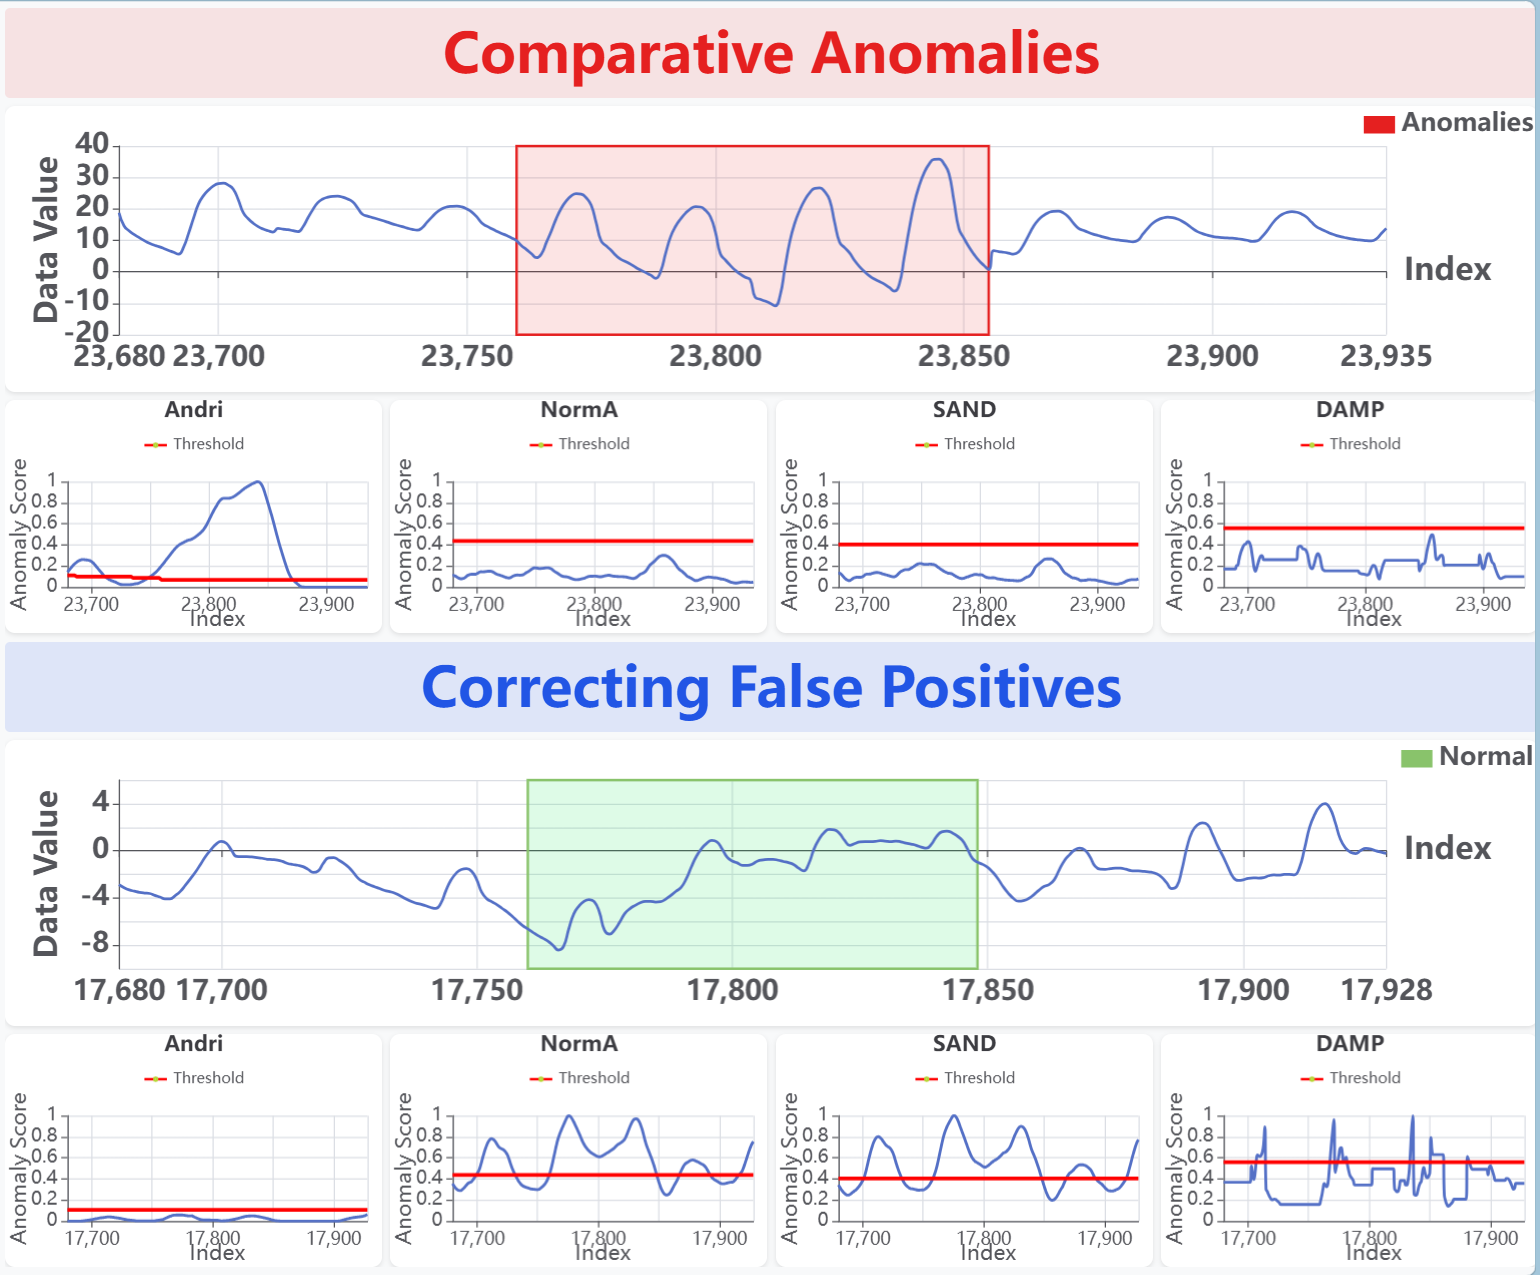
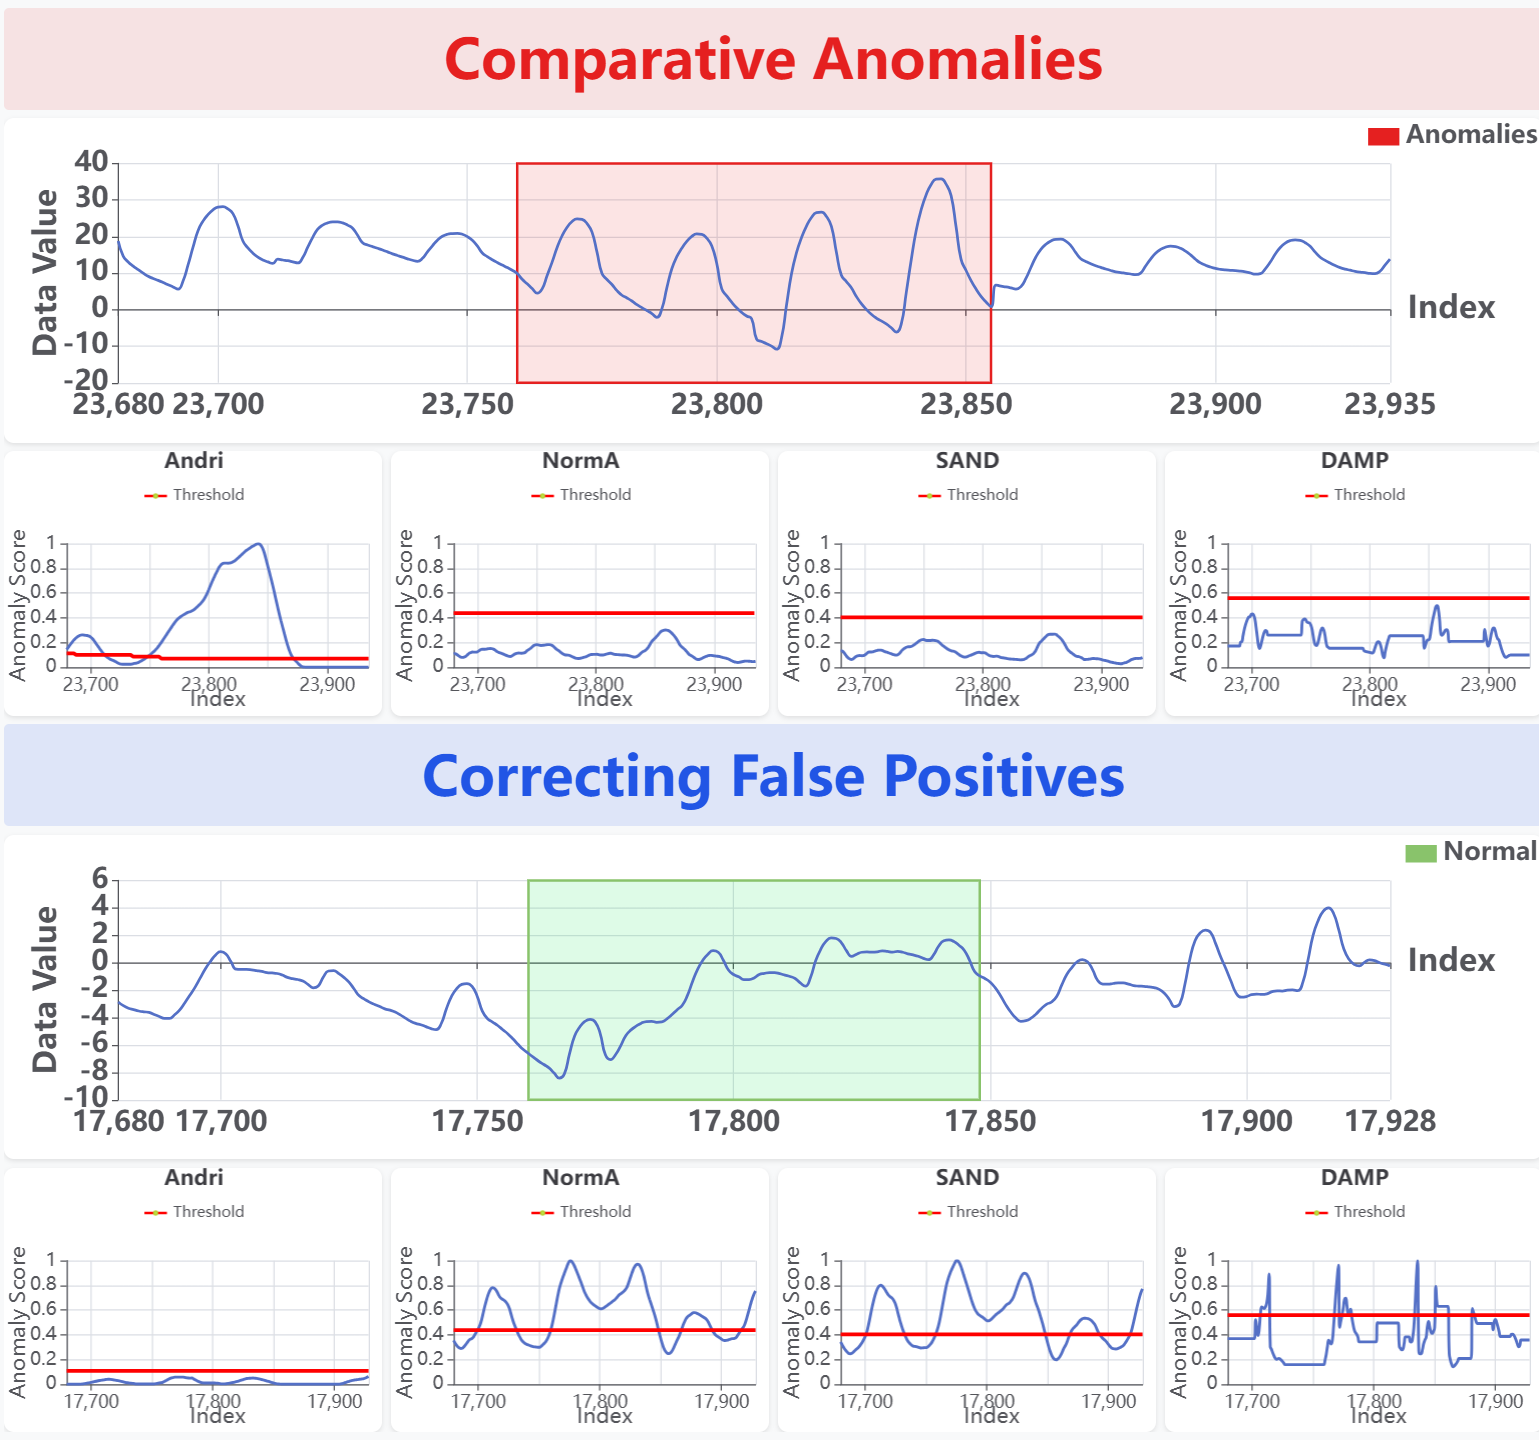
Updates from Overleaf

diff --git a/chapters_after_preface/6_Experiments.tex b/chapters_after_preface/6_Experiments.tex
@@ -16,8 +16,6 @@ Three time-series datasets were used to evaluate the system: ECG, Elec, and Weat
 \noindent To evaluate the ECG results, AnDri was compared with three baseline anomaly detection methods: NormA, SAND, and DAMP. The ECG dataset is taken from the public TSB-UAD benchmark repository,\footnote{\url{https://github.com/TheDatumOrg/TSB-UAD}} while the AnDri demo integration is implemented in the project repository.\footnote{\url{https://github.com/ZeeChee-Guo/AndriDemo}} For the baseline implementations, SAND and DAMP are integrated through publicly available benchmark or project code. NormA is treated separately because its source code is not directly included in the TSB-UAD repository used in this project; access to the NormA implementation needs to be requested from the original authors.
 
 
-
-
 \section{Evaluation Metrics}
 % \fei{How do you measure these using what labels?}
 % \fei{What does this mean technically?  Avoid general statements that are vague.  PResent what results????}
@@ -95,51 +93,58 @@ Overall, this experiment supports the effectiveness of incorporating user intera
 
 
 
-\section{ECG Experimental Results and Analysis}
-Table~\ref{tab61} reports the ECG detection results for AnDri and the three baseline methods. AnDri achieves the best recall, F1-score, and AUC among all methods. Although NormA obtains the highest precision, its recall is much lower, which indicates that it misses many true anomaly points. DAMP has relatively high recall, but its lower precision and F1-score show that it produces more false positives. SAND performs poorly on recall in this setting, suggesting that many ECG anomalies are not successfully detected.
+
+
+\section{Visual Anomaly and Drift Co-Exploration Results}
+
+The second group of experiments evaluates the visualization contribution of the AnDri system. This section shows that the interface can make the behavior of AnDri interpretable. The quantitative results are reported in Table~\ref{tab:t1}, while the figures show the local time-series values, anomaly-score curves, thresholds, and highlighted regions.
 
 \begin{table}[H]
 \centering
-\caption{ECG detection results.}
-\label{tab61}
-\begin{tabular}{lcccc}
+\small
+\caption{Comparative accuracy for the ECG and Weather visual case studies, using the values reported in the AnDri paper \citep{park2025andri}.}
+\label{tab:t1}
+\begin{tabular}{llcccc}
 \hline
-Algorithm & Precision & Recall & F1-Score & AUC \\
+Dataset & Algorithm & Precision & Recall & F1-Score & AUC \\
 \hline
-AnDri & 0.412 & \textbf{0.808} & \textbf{0.546} & \textbf{0.964} \\
-NormA & \textbf{0.679} & 0.391 & 0.496 & 0.887 \\
-SAND  & 0.236 & 0.023 & 0.042 & 0.853 \\
-DAMP  & 0.239 & 0.776 & 0.365 & 0.816 \\
+ECG & AnDri & 0.412 & \textbf{0.808} & \textbf{0.546} & \textbf{0.964} \\
+ECG & NormA & \textbf{0.679} & 0.391 & 0.496 & 0.887 \\
+ECG & SAND  & 0.236 & 0.023 & 0.042 & 0.853 \\
+ECG & DAMP  & 0.239 & 0.776 & 0.365 & 0.816 \\
+\hline
+Weather & AnDri & \textbf{0.50} & 0.57 & \textbf{0.54} & \textbf{0.87} \\
+Weather & NormA & 0.19 & 0.40 & 0.25 & 0.63 \\
+Weather & SAND  & 0.15 & 0.44 & 0.23 & 0.60 \\
+Weather & DAMP  & 0.14 & \textbf{0.77} & 0.23 & 0.66 \\
 \hline
 \end{tabular}
 \end{table}
 
-The results show that AnDri provides the best overall balance between detecting real ECG anomalies and separating anomalies from normal pattern changes. The high recall means that AnDri detects most of the labeled anomalous ECG points. The highest F1-score shows that this improvement is not only caused by predicting more points as anomalies, but by achieving a better balance between recall and precision. The highest AUC further indicates that AnDri's anomaly scores separate anomalous and normal points more clearly than the baseline scores.
+Table~\ref{tab:t1} shows that AnDri achieves the highest F1-score and AUC on both datasets. On ECG, AnDri also obtains the highest recall, indicating that it detects most of the labelled anomalous ECG points. On Weather, DAMP has the highest recall, but its precision and F1-score are much lower, suggesting that it detects more points as anomalies but also introduces more false positives. In contrast, AnDri provides a better balance between precision and recall.
+
+\subsection{ECG Case Study}
 
 \begin{figure}[H]
     \centering
-    \includegraphics[width=\textwidth]{figures/andri_result.png}
-    \caption{ECG result analysis \cite{park2025andri}.}
-    \label{fig61}
+    \includegraphics[width=0.75\textwidth]{figures/andri_result.png}
+    \caption{ECG visual comparison of anomalies and false positives \citep{park2025andri}.}
+    \label{fig:61}
 \end{figure}
 
-Figure~\ref{fig61} gives a visual explanation of these results. The top part, labeled ``Comparative Anomalies'', shows a region containing true anomalies. In this region, AnDri's anomaly scores are above its threshold, so the system correctly identifies the region as anomalous. In contrast, NormA and SAND do not clearly separate the anomalous region from normal behavior. This explains why the baselines have weaker recall in the Table~\ref{tab61}.
+Figure~\ref{fig:61} gives a visual explanation of the ECG results. The top part, labelled ``Comparative Anomalies'', shows a region containing true anomalies. In this region, AnDri's anomaly scores are above its threshold, so the system correctly identifies the region as anomalous. In contrast, NormA and SAND do not clearly separate the anomalous region from normal behavior, which explains their weaker recall.
 
-The bottom part, labeled ``Correcting False Positives'', shows the opposite situation. The highlighted green region represents a change in normal ECG pattern, namely concept drift, rather than true anomaly points. AnDri assigns this region a score below its threshold, so it correctly treats the subsequence as normal behavior under drift. However, the baseline methods produce scores close to or above their thresholds, which can lead them to classify the drift region as anomalous. In this case, AnDri can recognize that a changed pattern may be a new normal pattern, while the baseline methods are more likely to confuse this drift with an anomaly.
+The bottom part, labelled ``Correcting False Positives'', shows the opposite situation. The highlighted green region represents a change in normal ECG pattern, namely concept drift, rather than true anomaly points. AnDri assigns this region a score below its threshold and correctly treats it as normal behavior under drift. However, the baseline methods produce scores close to or above their thresholds, which can cause them to classify the drift region as anomalous.
 
-Overall, the ECG experiment supports the main motivation of AnDri. In time series with concept drift, anomaly detection is not only a matter of finding unusual subsequences. The system must also decide whether a changed subsequence is truly abnormal or simply reflects a shift in normal behavior. The quantitative results and the visual comparison both show that AnDri handles this distinction more effectively than the baseline methods.
+\subsection{Weather Case Study}
 
-\subsection{Discussion}
+\begin{figure}[H]
+    \centering
+    \includegraphics[width=0.75\textwidth]{figures/weather.png}
+    \caption{ECG visual comparison of anomalies and false positives.}
+    \label{fig:62}
+\end{figure}
 
-The ECG experiment demonstrates that AnDri can distinguish between true anomalies and concept drift in the same time series. The visual comparison shows that AnDri can recognize new normal patterns without incorrectly reporting them as anomalies. This supports the main motivation of the system: anomaly detection should consider whether a changed pattern is truly abnormal or whether it represents a shift in normal behavior.
+Figure~\ref{fig:62} provides an additional example on the Weather dataset. Similar to the ECG case, the top part, labelled ``Comparative Anomalies'', shows a true anomaly interval highlighted in red. In this region, AnDri's score rises above its threshold, while the scores of NormA, SAND, and DAMP remain below their thresholds. This indicates that AnDri detects the anomalous interval, whereas the baseline methods miss it.
 
-The active-learning workflow is also important for the final result. In many real anomaly detection tasks, complete and reliable labels are difficult to obtain. The user may only label a small number of candidate anomalies, and some of these labels may be uncertain or incorrect. AnDri addresses this by asking the user to review candidate points near the decision boundary and then recomputing the threshold. This human-in-the-loop process helps the system use partial feedback more effectively than a fixed automatic threshold.
-
-However, this design also introduces limitations. The system depends on user feedback, so the quality of the final threshold can be affected by the user's domain knowledge and labeling consistency. In addition, the review process may require several iterations when the anomaly-score distribution is ambiguous. Asking for more feedback can improve detection quality, but it also increases labeling effort. This reflects a common trade-off in active-learning systems between annotation cost and model performance.
-
-Another limitation is that AnDri is specifically designed for environments where anomalies and concept drift coexist. If a time series mainly contains anomalies but no concept drift, the advantages of AnDri may become less significant. Future improvement will be briefly explained in the next chapter.
-
-
-
-
-
+The bottom part shows a normal interval highlighted in green. AnDri keeps its score below the threshold and correctly treats the region as normal. In contrast, the baseline methods produce higher scores and may classify parts of this normal region as anomalies. This example shows that the same visualization design can also explain AnDri's behaviour on the Weather dataset, where seasonal variation and gradual drift make anomaly detection more challenging.